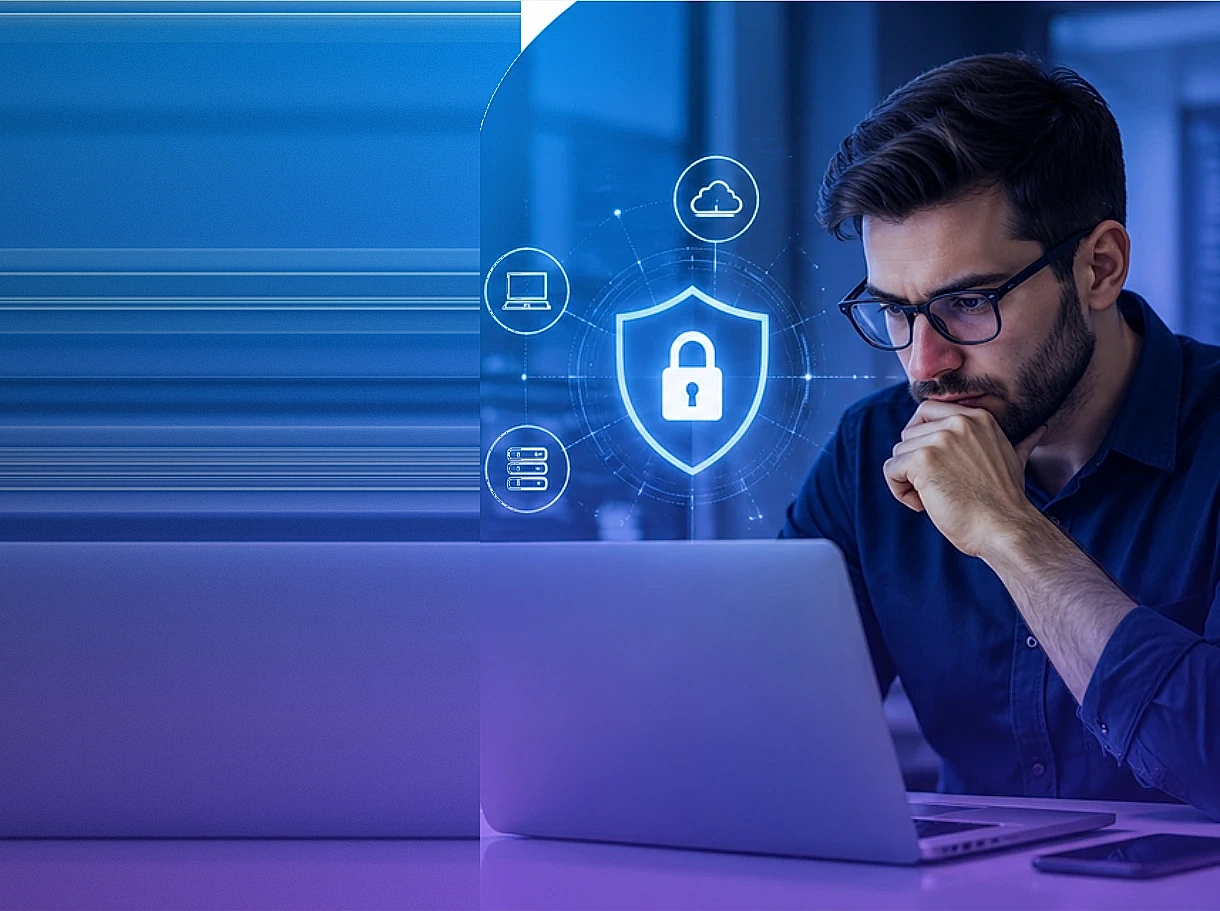
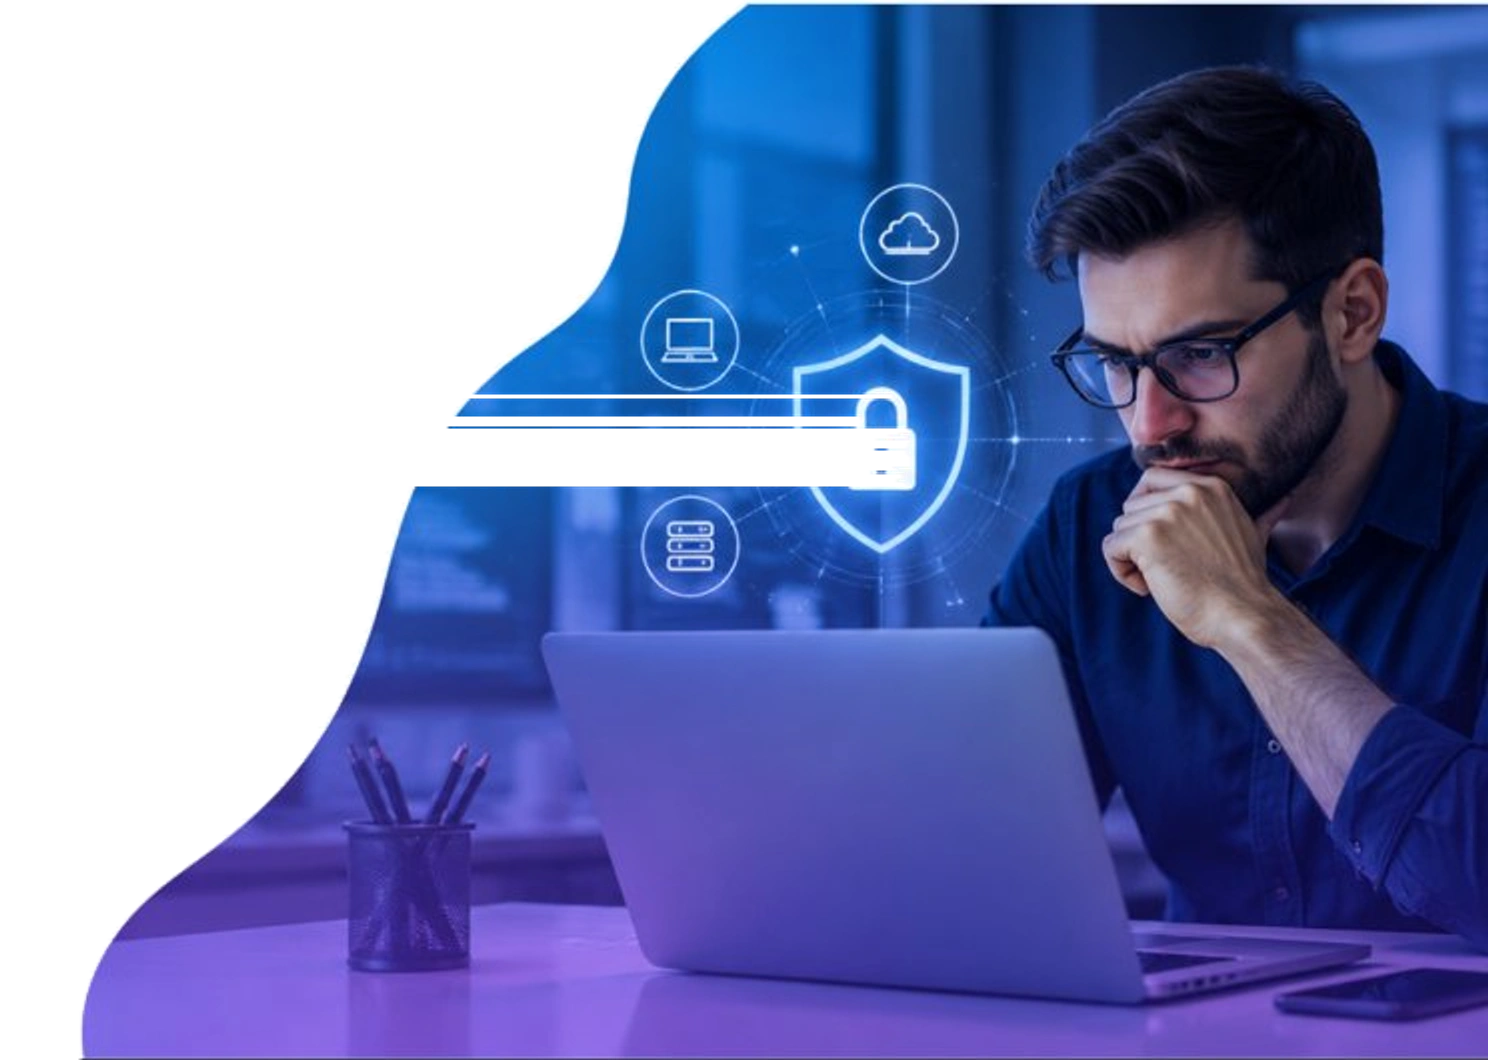
point fix

diff --git a/components/sections/HeroSection.tsx b/components/sections/HeroSection.tsx
@@ -1,7 +1,7 @@
 import Image from "next/image";
 import Link from "next/link";
 import { LuArrowRight } from "react-icons/lu";
-import { Heading } from "@/components/ui/Text";
+import { Heading, Lines } from "@/components/ui/Text";
 import { container } from "@/components/ui/classes";
 import { introHidden } from "@/components/ui/motion";
 import type { HeroData } from "@/types/templates.types";
@@ -14,12 +14,12 @@ export const HeroSection = ({ data }: { data?: HeroData }) => {
   if (!data) return null;
   return (
     <section className="section-spacing relative overflow-hidden bg-white">
-      <div className={`${container} relative z-10 flex flex-col py-8 md:min-h-[34rem] md:justify-center xl:min-h-[42.75rem]`}>
-        <div className="md:w-[50%] md:pr-4 xl:w-[45%] xl:pl-[2rem]">
+      <div className={`${container} relative z-10 flex flex-col py-6 md:min-h-[30rem] md:justify-center xl:min-h-[35rem] xl:py-8`}>
+        <div className="pt-3 sm:pt-4 md:pt-6 xl:pt-8 md:w-[54%] md:pr-4 xl:w-[52%] xl:pl-[2rem]">
           <h1
             data-intro="up"
             suppressHydrationWarning
-            className={`max-w-[40rem] font-heading text-[1.65rem] font-extrabold leading-[1.15] tracking-[-0.01em] text-navy min-[360px]:text-[1.85rem] min-[400px]:text-[2.1rem] sm:text-[3rem] sm:leading-[1.1] md:text-[2.4rem] lg:text-[3rem] xl:text-[3.69rem] xl:leading-[1.09] ${introHidden}`}
+            className={`max-w-[46rem] font-heading text-[1.35rem] font-extrabold leading-[1.18] tracking-[-0.01em] text-navy min-[360px]:text-[1.55rem] min-[400px]:text-[1.75rem] sm:text-[2.2rem] sm:leading-[1.16] md:text-[2.1rem] lg:text-[2.65rem] xl:text-[3rem] xl:leading-[1.14] 2xl:text-[3.25rem] sm:[&>span:last-child]:whitespace-nowrap [&>span]:mb-0.5 xl:[&>span]:mb-1 [&>span:last-child]:mb-0 ${introHidden}`}
           >
             <Heading text={data.title} highlight={data.titleHighlight} breakFrom="always" />
           </h1>
@@ -27,14 +27,14 @@ export const HeroSection = ({ data }: { data?: HeroData }) => {
             data-intro="up"
             data-intro-delay="150"
             suppressHydrationWarning
-            className={`mt-5 max-w-[34rem] font-body text-[1.0625rem] leading-[1.5] text-body sm:text-[1.125rem] xl:mt-[1.2rem] xl:max-w-[33.9rem] xl:text-[1.16rem] ${introHidden}`}
+            className={`mt-4 max-w-[38rem] font-body text-[1.0625rem] leading-[1.55] text-body sm:mt-5 sm:text-[1.125rem] xl:mt-[1.35rem] xl:max-w-[40rem] xl:text-[1.16rem] xl:leading-[1.58] ${introHidden}`}
           >
-            {data.description}
+            <Lines text={data.description} breakFrom="sm" />
           </p>
           <div data-intro="up" data-intro-delay="300" suppressHydrationWarning className={introHidden}>
             <Link
               href={data.buttonUrl}
-              className="group mt-8 inline-flex h-[3.15rem] items-center gap-[0.85rem] rounded-[0.375rem] border-2 border-primary bg-primary px-[1.9rem] font-heading text-[1.0625rem] font-semibold text-white shadow-sm transition-all duration-300 hover:border-primary hover:bg-white hover:text-primary hover:shadow-lg xl:mt-[2.15rem] xl:h-[3.8rem] xl:px-[2.3rem] xl:text-[1.06rem]"
+              className="group mt-7 inline-flex h-[3.15rem] items-center gap-[0.85rem] rounded-[0.375rem] border-2 border-primary bg-primary px-[1.9rem] font-heading text-[1.0625rem] font-semibold text-white shadow-sm transition-all duration-300 hover:border-primary hover:bg-white hover:text-primary hover:shadow-lg sm:mt-8 xl:mt-[2.4rem] xl:h-[3.8rem] xl:px-[2.3rem] xl:text-[1.06rem]"
             >
               {data.buttonText}
               <LuArrowRight className="size-[1.25rem] transition-transform group-hover:translate-x-1" strokeWidth={2.2} />
@@ -45,11 +45,11 @@ export const HeroSection = ({ data }: { data?: HeroData }) => {
 
       {/* Stack the hero image on phones and place it beside the text from tablet widths up. */}
       <div className="mt-4 pl-[8%] sm:pl-[20%] md:hidden">
-        <div className={`relative aspect-[1220/911] w-full ${blob}`}>
+        <div className={`relative aspect-[1220/850] max-h-[320px] w-full ${blob}`}>
           <Image src={data.image} alt={data.imageAlt} fill sizes="(min-width: 1280px) 1px, 92vw" priority className="object-cover object-right" />
         </div>
       </div>
-      <div className={`absolute right-0 top-0 hidden h-full w-[56%] md:block lg:w-[60%] xl:w-[63.55%] ${blob}`}>
+      <div className={`absolute right-0 top-0 bottom-0 hidden h-full w-[56%] md:block lg:w-[60%] xl:w-[63.55%] ${blob}`}>
         <Image src={data.image} alt={data.imageAlt} fill sizes="(min-width: 1280px) 64vw, 56vw" priority className="object-cover object-right" />
       </div>
     </section>

diff --git a/components/sections/TestimonialsSection.tsx b/components/sections/TestimonialsSection.tsx
@@ -4,6 +4,7 @@ import { useState } from "react";
 import Image from "next/image";
 import { LuArrowLeft, LuArrowRight, LuStar } from "react-icons/lu";
 import { Heading } from "@/components/ui/Text";
+import { SectionLabel } from "@/components/ui/SectionLabel";
 import { container } from "@/components/ui/classes";
 import { fill } from "@/components/ui/fill";
 import type { GlobalUIData, TestimonialsData } from "@/types/templates.types";
@@ -22,15 +23,9 @@ export function TestimonialsSection({ data: content, ui }: { data?: Testimonials
         <div className="mx-auto grid max-w-[77rem] grid-cols-1 items-start gap-12 lg:grid-cols-[561fr_550fr] lg:gap-[2.6rem] xl:gap-[7.4rem]">
           {/* Left: text */}
           <div data-reveal="left" className="xl:pt-[0.15rem]">
-            <div className="flex items-center gap-[1.05rem]">
-              <span className="block h-[0.094rem] w-[3rem] bg-primary" aria-hidden="true" />
-              <span className="font-body text-[0.875rem] font-semibold uppercase leading-none text-primary xl:text-[0.94rem]">
-                {content.label}
-              </span>
-              <span className="block h-[0.094rem] w-[3rem] bg-primary" aria-hidden="true" />
-            </div>
-            <h2 className="mt-5 font-heading text-[1.55rem] font-extrabold leading-[1.15] tracking-[-0.02em] text-navy min-[360px]:text-[1.8rem] min-[400px]:text-[2.1rem] sm:text-[2.6rem] sm:leading-[1.12] xl:mt-[1.35rem] xl:text-[3.25rem] xl:leading-[1.1]">
-              <Heading text={content.title} highlight={content.titleHighlight} breakFrom="always" />
+            <SectionLabel text={content.label} variant="line-left" />
+            <h2 className="mt-3 font-heading text-[1.25rem] font-extrabold leading-[1.25] tracking-[-0.02em] text-navy min-[360px]:text-[1.35rem] min-[400px]:text-[1.5rem] sm:text-[2.2rem] sm:leading-[1.15] xl:mt-[1.35rem] xl:text-[3.25rem] xl:leading-[1.1]">
+              <Heading text={content.title} highlight={content.titleHighlight} breakFrom="md" />
             </h2>
 
             <div className="mt-8 flex items-center gap-[1rem] xl:mt-[1.7rem]">
@@ -74,7 +69,7 @@ export function TestimonialsSection({ data: content, ui }: { data?: Testimonials
               <button
                 type="button"
                 onClick={() => go(-1)}
-                className="flex size-[3.56rem] items-center justify-center rounded-full border-2 border-primary bg-white text-primary transition-all duration-300 hover:bg-primary hover:text-white hover:shadow-md"
+                className="flex size-[3.56rem] items-center justify-center rounded-full border-2 border-primary bg-white text-primary transition-all duration-300 hover:bg-primary hover:text-white hover:shadow-md active:bg-primary active:text-white active:scale-95"
                 aria-label={ui?.previousLabel}
               >
                 <LuArrowLeft className="size-[1.35rem]" strokeWidth={2.2} />
@@ -82,7 +77,7 @@ export function TestimonialsSection({ data: content, ui }: { data?: Testimonials
               <button
                 type="button"
                 onClick={() => go(1)}
-                className="flex size-[3.56rem] items-center justify-center rounded-full border-2 border-primary bg-primary text-white shadow-[0_0.5rem_1.2rem_-0.4rem_var(--color-shadow-primary-60)] transition-all duration-300 hover:bg-white hover:text-primary hover:shadow-md"
+                className="flex size-[3.56rem] items-center justify-center rounded-full border-2 border-primary bg-white text-primary transition-all duration-300 hover:bg-primary hover:text-white hover:shadow-md active:bg-primary active:text-white active:scale-95"
                 aria-label={ui?.nextLabel}
               >
                 <LuArrowRight className="size-[1.35rem]" strokeWidth={2.2} />

diff --git a/components/sections/WhyChooseUs.tsx b/components/sections/WhyChooseUs.tsx
@@ -34,13 +34,13 @@ export function WhyChooseUs({ data: whyChoose }: { data?: WhyChooseData }) {
 
   const oval = (
     <div className="relative mx-auto aspect-[518/768] w-full max-w-[17.5rem] sm:max-w-[20rem] lg:max-w-none">
-      <div className="absolute inset-0 rounded-[50%] border-2 border-[var(--color-why-border)]" aria-hidden="true" />
-      <div className="absolute inset-[0.55rem] overflow-hidden rounded-[50%]">
+      <div className="absolute inset-0 rounded-[50%/43%] border-[0.125rem] border-[var(--color-why-border)]" aria-hidden="true" />
+      <div className="absolute inset-[0.55rem] overflow-hidden rounded-[50%/43%]">
         <Image src={whyChoose.image} alt={whyChoose.imageAlt} fill sizes="(min-width: 1024px) 28vw, 80vw" className="object-cover" />
       </div>
-      <span className="absolute left-[14.6%] top-[14.6%] size-[0.95rem] -translate-x-1/2 -translate-y-1/2 rounded-full bg-[var(--color-blue-accent)] shadow-sm" aria-hidden="true" />
-      <span className="absolute left-[1.1%] top-[60.4%] size-[0.95rem] -translate-x-1/2 -translate-y-1/2 rounded-full bg-[var(--color-blue-accent)] shadow-sm" aria-hidden="true" />
-      <span className="absolute left-[99.6%] top-[56%] size-[0.95rem] -translate-x-1/2 -translate-y-1/2 rounded-full bg-[var(--color-blue-accent)] shadow-sm" aria-hidden="true" />
+      <span className="absolute left-[12.8%] top-[14.3%] size-[0.95rem] -translate-x-1/2 -translate-y-1/2 rounded-full bg-[var(--color-blue-accent)] shadow-sm" aria-hidden="true" />
+      <span className="absolute left-[0.2%] top-[60.7%] size-[0.95rem] -translate-x-1/2 -translate-y-1/2 rounded-full bg-[var(--color-blue-accent)] shadow-sm" aria-hidden="true" />
+      <span className="absolute left-[99.8%] top-[56%] size-[0.95rem] -translate-x-1/2 -translate-y-1/2 rounded-full bg-[var(--color-blue-accent)] shadow-sm" aria-hidden="true" />
     </div>
   );
 
@@ -56,9 +56,9 @@ export function WhyChooseUs({ data: whyChoose }: { data?: WhyChooseData }) {
       />
       <div className={`${container} relative`}>
         <div data-reveal="up" className="text-center">
-          <SectionLabel text={whyChoose.label} variant="dot-lines" />
-          <h2 className="mt-4 font-heading text-[1.5rem] font-extrabold leading-[1.2] tracking-[-0.02em] text-navy min-[360px]:text-[1.75rem] min-[400px]:text-[1.95rem] sm:text-[2.5rem] xl:mt-[1.2rem] xl:text-[3.2rem] xl:leading-[1.03]">
-            <Heading text={whyChoose.title} highlight={whyChoose.titleHighlight} breakFrom="always" />
+          <SectionLabel text={whyChoose.label} variant="dots-lines" />
+          <h2 className="mx-auto mt-3 max-w-[46rem] font-heading text-[1.25rem] font-extrabold leading-[1.25] tracking-[-0.02em] text-navy min-[360px]:text-[1.35rem] min-[400px]:text-[1.5rem] sm:text-[2rem] xl:mt-[1.2rem] xl:text-[3.2rem] xl:leading-[1.03]">
+            <Heading text={whyChoose.title} highlight={whyChoose.titleHighlight} breakFrom="md" />
           </h2>
         </div>
 

diff --git a/components/ui/SectionLabel.tsx b/components/ui/SectionLabel.tsx
@@ -44,34 +44,17 @@ export function SectionLabel({ text, variant = "lines", className = "" }: Props)
     );
   }
 
-  if (variant === "dot-lines") {
+  if (variant === "dot-lines" || variant === "dots-lines") {
     return (
-      <div className={`flex items-center justify-center gap-[0.9rem] ${className}`}>
-        <Line className="w-[2.5rem] xl:w-[3.9rem]" />
-        <span className="flex items-center gap-[0.55rem]">
-          <Dot />
-          <span className="font-body text-[0.875rem] font-semibold uppercase leading-none tracking-[0.01em] text-primary xl:text-[1rem]">
-            {text}
-          </span>
-        </span>
-        <Line className="w-[2.5rem] xl:w-[3.9rem]" />
-      </div>
-    );
-  }
-
-  if (variant === "dots-lines") {
-    return (
-      <div className={`flex items-center justify-center gap-[1.4rem] ${className}`}>
+      <div className={`flex items-center justify-center gap-[0.9rem] sm:gap-[1.1rem] ${className}`}>
         <span className="flex items-center">
-          <Line className="w-[2.5rem] xl:w-[3.9rem]" />
+          <Line className="w-[2rem] sm:w-[2.5rem] xl:w-[3.25rem]" />
           <Dot className="size-[0.45rem]" />
         </span>
-        <span className="font-body text-[0.8125rem] font-semibold uppercase leading-none text-primary xl:text-[0.875rem]">
-          {text}
-        </span>
+        {label}
         <span className="flex items-center">
           <Dot className="size-[0.45rem]" />
-          <Line className="w-[2.5rem] xl:w-[3.9rem]" />
+          <Line className="w-[2rem] sm:w-[2.5rem] xl:w-[3.25rem]" />
         </span>
       </div>
     );
@@ -80,12 +63,9 @@ export function SectionLabel({ text, variant = "lines", className = "" }: Props)
   // "lines": ——  TEXT  ——
   return (
     <div className={`flex items-center justify-center gap-[0.9rem] ${className}`}>
-      <span className="flex items-center">
-        <span className="block size-[0.2rem] rounded-full bg-primary" aria-hidden="true" />
-        <Line className="w-[1.6rem] xl:w-[1.75rem]" />
-      </span>
+      <Line className="w-[2rem] sm:w-[2.5rem] xl:w-[3.25rem]" />
       {label}
-      <Line className="w-[1.75rem]" />
+      <Line className="w-[2rem] sm:w-[2.5rem] xl:w-[3.25rem]" />
     </div>
   );
 }

diff --git a/components/sections/AboutSection.tsx b/components/sections/AboutSection.tsx
@@ -9,7 +9,7 @@ import type { AboutData } from "@/types/templates.types";
 export function AboutSection({ data: about }: { data?: AboutData }) {
   if (!about) return null;
   return (
-    <section className="section-spacing relative overflow-hidden bg-[var(--color-about-bg)]">
+    <section className="section-spacing !pt-12 sm:!pt-16 xl:!pt-20 relative overflow-hidden bg-[var(--color-about-bg)]">
       {/* soft diagonal light bands from the design */}
       <div
         className="pointer-events-none absolute inset-0 bg-[linear-gradient(115deg,transparent_0%,transparent_38%,var(--color-glass-60)_38%,var(--color-glass-60)_56%,transparent_56%)]"
@@ -36,8 +36,8 @@ export function AboutSection({ data: about }: { data?: AboutData }) {
         {/* Text */}
         <div data-reveal="up" className="order-1 xl:order-2 xl:pt-[0.25rem]">
           <SectionLabel text={about.label} variant="line-left" />
-          <h2 className="mt-4 font-heading text-[1.5rem] font-extrabold leading-[1.2] tracking-[-0.02em] text-navy min-[360px]:text-[1.75rem] min-[400px]:text-[1.95rem] sm:text-[2.4rem] xl:mt-[0.75rem] xl:text-[3rem] xl:leading-[1.125]">
-            <Heading text={about.title} highlight={about.titleHighlight} breakFrom="always" />
+          <h2 className="mt-3 font-heading text-[1.25rem] font-extrabold leading-[1.25] tracking-[-0.02em] text-navy min-[360px]:text-[1.35rem] min-[400px]:text-[1.5rem] sm:text-[2rem] xl:mt-[0.75rem] xl:text-[3rem] xl:leading-[1.125]">
+            <Heading text={about.title} highlight={about.titleHighlight} breakFrom="md" />
           </h2>
           <p className="mt-4 max-w-[40.5rem] font-body text-[1.0625rem] leading-[1.45] text-body xl:mt-[0.75rem] xl:text-[1.16rem] xl:leading-[1.34]">
             {about.description}

diff --git a/components/sections/ServiceIntro.tsx b/components/sections/ServiceIntro.tsx
@@ -9,9 +9,9 @@ export function ServiceIntro({ data: detail }: { data: ServiceDetailData }) {
   return (
     <div className="grid grid-cols-1 items-center gap-10 bg-[linear-gradient(120deg,var(--color-intro-top)_0%,var(--color-intro-bottom)_100%)] px-5 py-10 sm:px-8 md:py-12 lg:grid-cols-2 lg:gap-12 xl:grid-cols-[1fr_36.5rem] xl:gap-[2.5rem] xl:pb-[1.3rem] xl:pl-[4.125rem] xl:pr-[3.3rem] xl:pt-[1.83rem]">
       <div className="xl:pb-[0.5rem]">
-        <SectionLabel text={content.label} variant="lines" className="!justify-start" />
-        <h2 className="mt-4 font-heading text-[1.65rem] font-extrabold leading-[1.15] tracking-[-0.015em] text-navy min-[360px]:text-[1.85rem] min-[400px]:text-[2.1rem] sm:text-[2.7rem] xl:mt-[1rem] xl:text-[3.25rem]">
-          <Heading text={detail.title} highlight={detail.titleHighlight} breakFrom="always" />
+        <SectionLabel text={content.label} variant="line-left" />
+        <h2 className="mt-3 font-heading text-[1.25rem] font-extrabold leading-[1.25] tracking-[-0.015em] text-navy min-[360px]:text-[1.35rem] min-[400px]:text-[1.5rem] sm:text-[2.2rem] xl:mt-[1rem] xl:text-[3.25rem]">
+          <Heading text={detail.title} highlight={detail.titleHighlight} breakFrom="md" />
         </h2>
         <p className="mt-4 max-w-[30.4rem] font-body text-[1.0625rem] leading-[1.52] text-body xl:mt-[1.15rem] xl:text-[1.03rem]">
           {detail.description}

diff --git a/components/sections/BlogSection.tsx b/components/sections/BlogSection.tsx
@@ -10,9 +10,9 @@ export function BlogSection({ data: content, ui }: { data?: BlogsData; ui?: Glob
     <section className="section-spacing bg-[linear-gradient(180deg,var(--color-section-tint)_0%,var(--color-light)_100%)]">
       <div className="mx-auto w-full max-w-[90rem] px-5 md:px-8 xl:px-[2.35rem]">
         <div data-reveal="up" className="text-center">
-          <SectionLabel text={content.label} variant="dot-lines" />
-          <h2 className="mt-4 font-heading text-[1.5rem] font-extrabold leading-[1.2] tracking-[-0.02em] text-navy min-[360px]:text-[1.75rem] min-[400px]:text-[1.95rem] sm:text-[2.5rem] xl:mt-[0.85rem] xl:text-[3rem]">
-            <Heading text={content.title} highlight={content.titleHighlight} breakFrom="always" />
+          <SectionLabel text={content.label} variant="dots-lines" />
+          <h2 className="mx-auto mt-3 max-w-[46rem] font-heading text-[1.25rem] font-extrabold leading-[1.25] tracking-[-0.02em] text-navy min-[360px]:text-[1.35rem] min-[400px]:text-[1.5rem] sm:text-[2rem] xl:mt-[0.85rem] xl:text-[3rem]">
+            <Heading text={content.title} highlight={content.titleHighlight} breakFrom="md" />
           </h2>
           <p className="mx-auto mt-3 max-w-[46rem] font-body text-[1.0625rem] leading-[1.49] text-body xl:mt-[0.45rem] xl:text-[1.07rem]">
             <Lines text={content.description} breakFrom="lg" />

diff --git a/components/sections/BlogListing.tsx b/components/sections/BlogListing.tsx
@@ -10,9 +10,9 @@ export function BlogListing({ blogs, data, ui }: { blogs?: BlogsData; data?: Blo
     <section className="section-spacing bg-[linear-gradient(180deg,var(--color-page-top-alt)_0%,var(--color-page-bottom-cool)_100%)]">
       <div className="mx-auto w-full max-w-[90rem] px-5 md:px-8 xl:px-[2.35rem]">
         <div data-reveal="up" className="text-center">
-          <SectionLabel text={blogs.label} variant="dot-lines" />
-          <h2 className="mt-4 font-heading text-[1.5rem] font-extrabold leading-[1.2] tracking-[-0.02em] text-navy min-[360px]:text-[1.75rem] min-[400px]:text-[1.95rem] sm:text-[2.5rem] xl:mt-[0.85rem] xl:text-[3rem]">
-            <Heading text={blogs.title} highlight={blogs.titleHighlight} breakFrom="always" />
+          <SectionLabel text={blogs.label} variant="dots-lines" />
+          <h2 className="mx-auto mt-3 max-w-[46rem] font-heading text-[1.25rem] font-extrabold leading-[1.25] tracking-[-0.02em] text-navy min-[360px]:text-[1.35rem] min-[400px]:text-[1.5rem] sm:text-[2rem] xl:mt-[0.85rem] xl:text-[3rem]">
+            <Heading text={blogs.title} highlight={blogs.titleHighlight} breakFrom="md" />
           </h2>
           <p className="mx-auto mt-3 max-w-[46rem] font-body text-[1.0625rem] leading-[1.49] text-body xl:mt-[0.45rem] xl:text-[1.07rem]">
             <Lines text={blogs.description} breakFrom="lg" />

diff --git a/components/sections/ServicesSection.tsx b/components/sections/ServicesSection.tsx
@@ -12,9 +12,9 @@ export function ServicesSection({ data: services }: { data?: ServicesData }) {
     <section className="section-spacing relative overflow-hidden bg-[linear-gradient(180deg,var(--color-services-top)_0%,var(--color-services-bottom)_100%)]">
       <div className={`${container} relative`}>
         <div data-reveal="up" className="text-center">
-          <SectionLabel text={services.label} variant="lines" />
-          <h2 className="mx-auto mt-4 font-heading text-[1.45rem] font-extrabold leading-[1.2] tracking-[-0.02em] text-navy min-[360px]:text-[1.65rem] min-[400px]:text-[1.85rem] sm:text-[2.4rem] xl:mt-[0.9rem] xl:text-[2.81rem] xl:leading-[1.13]">
-            <Heading text={services.title} highlight={services.titleHighlight} breakFrom="always" />
+          <SectionLabel text={services.label} variant="dots-lines" />
+          <h2 className="-mx-2 mt-3 max-w-[46rem] font-heading text-[1.125rem] font-extrabold leading-[1.25] tracking-[-0.02em] text-navy sm:mx-auto min-[360px]:text-[1.35rem] min-[400px]:text-[1.5rem] sm:text-[2rem] xl:mt-[0.9rem] xl:text-[2.81rem] xl:leading-[1.13]">
+            <Heading text={services.title} highlight={services.titleHighlight} breakFrom="md" />
           </h2>
         </div>
 

diff --git a/components/sections/ServicesGrid.tsx b/components/sections/ServicesGrid.tsx
@@ -24,9 +24,9 @@ export function ServicesGrid({ data: content, ui }: { data?: ServicesGridData; u
     <section className="section-spacing bg-[linear-gradient(180deg,var(--color-page-top)_0%,var(--color-page-bottom-alt)_100%)]">
       <div className="mx-auto w-full max-w-[90rem] px-5 md:px-8 xl:px-[3.9rem]">
         <div data-reveal="up" className="text-center">
-          <SectionLabel text={content.label} variant="lines" />
-          <h2 className="mt-4 font-heading text-[1.35rem] font-extrabold leading-[1.2] tracking-[-0.02em] text-navy min-[360px]:text-[1.55rem] min-[400px]:text-[1.75rem] sm:text-[2.5rem] xl:mt-[1.05rem] xl:text-[3rem] xl:leading-[1.125]">
-            <Heading text={content.title} highlight={content.titleHighlight} breakFrom="always" />
+          <SectionLabel text={content.label} variant="dots-lines" />
+          <h2 className="-mx-2 mt-3 font-heading text-[1rem] font-extrabold leading-[1.3] tracking-[-0.02em] text-navy min-[360px]:text-[1.0625rem] min-[400px]:text-[1.25rem] sm:mx-auto sm:text-[2rem] sm:leading-[1.25] xl:mt-[1.05rem] xl:text-[3rem] xl:leading-[1.125]">
+            <Heading text={content.title} highlight={content.titleHighlight} breakFrom="md" />
           </h2>
         </div>
 

diff --git a/components/sections/ProjectsSection.tsx b/components/sections/ProjectsSection.tsx
@@ -22,9 +22,9 @@ export function ProjectsSection({
       <div className={`${container}`}>
         <div className="mx-auto max-w-[71.8rem]">
           <div data-reveal="up">
-          <SectionLabel text={content.label} variant="dot-line-left" />
-          <h2 className="mt-4 font-heading text-[1.5rem] font-extrabold leading-[1.2] tracking-[-0.02em] text-navy min-[360px]:text-[1.75rem] min-[400px]:text-[1.95rem] sm:text-[2.6rem] xl:mt-[0.95rem] xl:text-[3.62rem] xl:leading-[1.1]">
-            <Heading text={content.title} highlight={content.titleHighlight} breakFrom="always" />
+          <SectionLabel text={content.label} variant="line-left" />
+          <h2 className="mt-3 font-heading text-[1.25rem] font-extrabold leading-[1.25] tracking-[-0.02em] text-navy min-[360px]:text-[1.35rem] min-[400px]:text-[1.5rem] sm:text-[2rem] xl:mt-[0.95rem] xl:text-[3.62rem] xl:leading-[1.1]">
+            <Heading text={content.title} highlight={content.titleHighlight} breakFrom="md" />
           </h2>
           <p className="mt-4 max-w-[52rem] font-body text-[1.0625rem] leading-[1.5] text-body xl:mt-[1.15rem] xl:text-[1.41rem]">
             <Lines text={content.description} breakFrom="lg" />

diff --git a/components/sections/TeamSection.tsx b/components/sections/TeamSection.tsx
@@ -129,8 +129,8 @@ export function TeamSection({
         <div className={`${container} !max-w-none xl:!px-[3.1rem]`}>
           <div data-reveal="up" className="text-center">
             <SectionLabel text={content.label} variant="dots-lines" />
-            <h2 className="mt-4 font-heading text-[1.5rem] font-extrabold leading-[1.2] tracking-[-0.02em] text-navy min-[360px]:text-[1.75rem] min-[400px]:text-[1.95rem] sm:text-[2.5rem] xl:mt-[1rem] xl:text-[3.15rem] xl:leading-[1.13]">
-              <Heading text={content.title} highlight={content.titleHighlight} breakFrom="always" />
+            <h2 className="mx-auto mt-3 max-w-[46rem] font-heading text-[1.25rem] font-extrabold leading-[1.25] tracking-[-0.02em] text-navy min-[360px]:text-[1.35rem] min-[400px]:text-[1.5rem] sm:text-[2rem] xl:mt-[1rem] xl:text-[3.15rem] xl:leading-[1.13]">
+              <Heading text={content.title} highlight={content.titleHighlight} breakFrom="md" />
             </h2>
             <p className="mx-auto mt-4 max-w-[50rem] font-body text-[1.0625rem] leading-[1.45] text-body xl:mt-[0.8rem] xl:text-[1.07rem] xl:leading-[1.41]">
               <Lines text={content.description} breakFrom="lg" />
